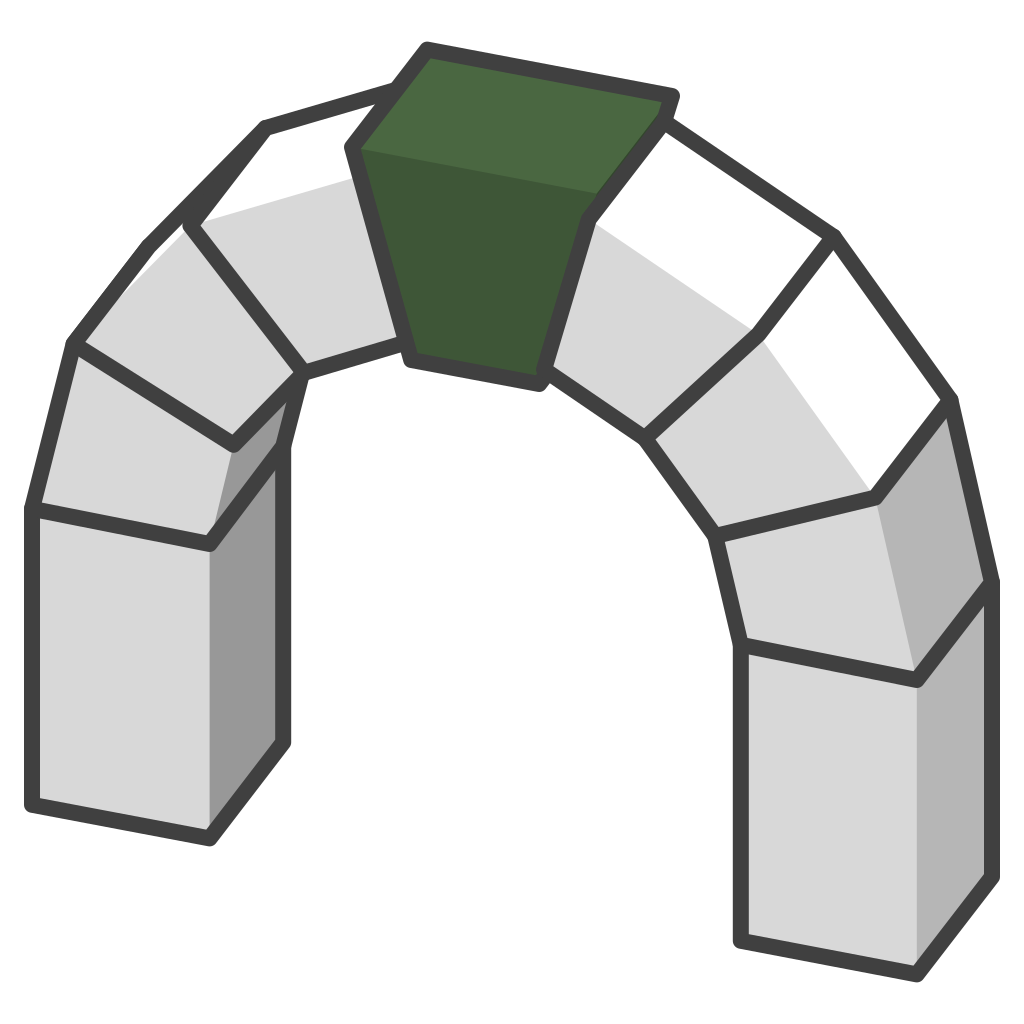
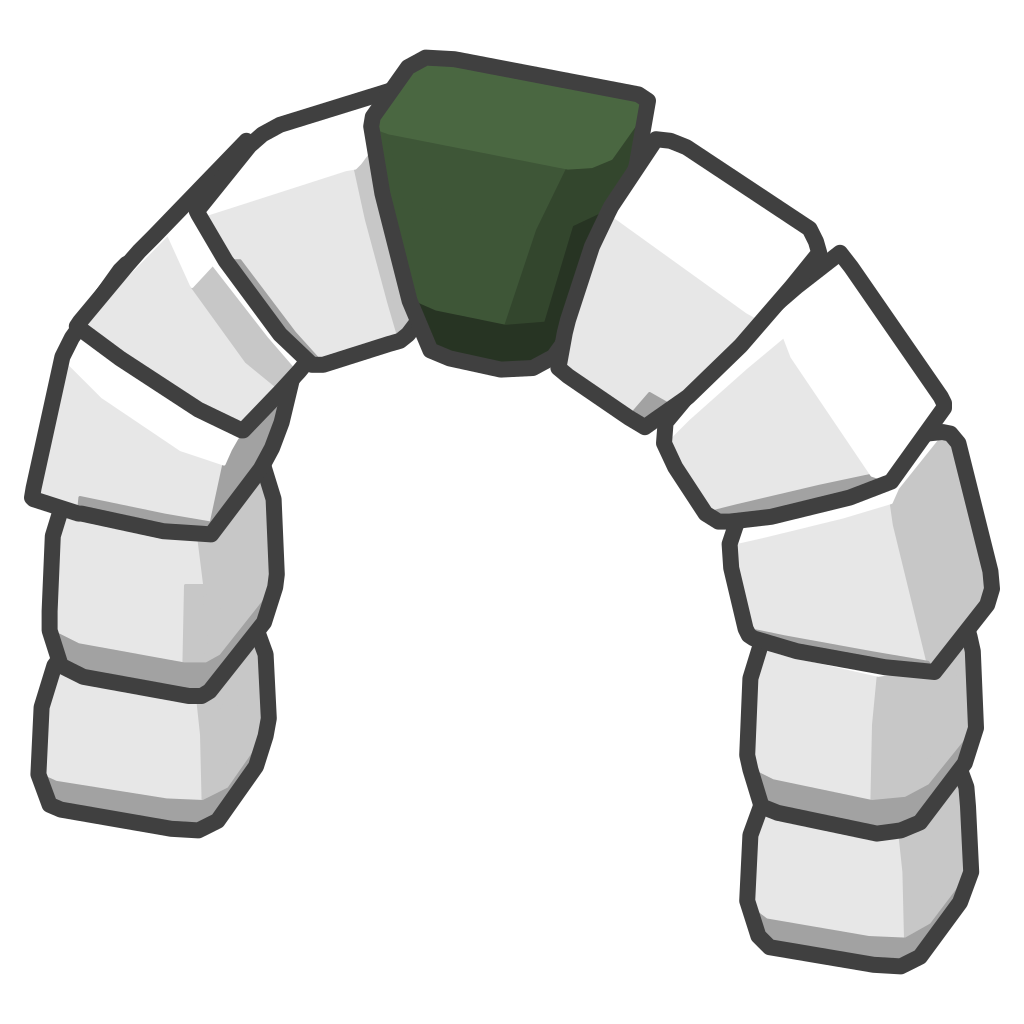
design(mark): arch v4, cairn-level faceted stones
Each stone is now a rounded slab built as cairn's are: rings up the side
(foot, belly, shoulder, top), 16 to 21 visible faces toned by normal, a
sloped top and seeded noise so no two match. Piers stand in two courses.
Faces of a tone share one path with a hair of their own colour, so the
large form stays crisp with no seams and no filters. The favicon keeps the
flat prisms; the hero's settled frame equals mark.svg. cairn-ref.svg is now
cairn's faceted glyph for comparison; its favicon moves to
cairn-favicon-ref.svg.

Changed region(s): [[0.0, 0.0312, 1.0, 0.9688], [0.375, 0.0625, 0.4062, 0.0938]]

diff --git a/prototypes/mark/index.html b/prototypes/mark/index.html
@@ -30,7 +30,7 @@ button { font: inherit; font-size: 13px; padding: 4px 12px; border: 1px solid va
 <body>
 <main>
 <h1>keystone mark: arch</h1>
-<p class="lede">A flat-faced isometric arch: two piers, six ring stones and the moss keystone standing proud at the crown. Faces are told apart by tone, not seams; the only stroke is each stone's silhouette at cairn's weight. Every image is an SVG at its own size except the favicon PNGs, which are 1:1.</p>
+<p class="lede">An isometric arch: two piers in two courses each, six ring stones and the moss keystone standing proud at the crown. Each stone is a rounded slab, cairn's build: rings up the side, many faces toned by normal, seeded so no two match. Faces of a tone share one fill, so no seams; the only dark stroke is each stone's silhouette at cairn's weight. The favicon stays the flat form. Every image is an SVG at its own size except the favicon PNGs, which are 1:1.</p>
 
 <section>
   <h2>hero: the keystone drops into the crown</h2>
@@ -44,6 +44,7 @@ button { font: inherit; font-size: 13px; padding: 4px 12px; border: 1px solid va
   <h2>mark</h2>
   <div class="row">
     <figure><img src="arch/mark.svg" width="512" height="512" alt="arch mark at 512"><figcaption>mark.svg at 512</figcaption></figure>
+    <figure><img src="cairn-ref.svg" width="512" height="512" alt="cairn glyph at 512"><figcaption>cairn's glyph at 512, for face density</figcaption></figure>
     <figure><img src="arch/mark.svg" width="128" height="128" alt="arch mark at 128"><figcaption>128</figcaption></figure>
     <figure><img src="arch/mark.svg" width="64" height="64" alt="arch mark at 64"><figcaption>64</figcaption></figure>
   </div>
@@ -54,7 +55,7 @@ button { font: inherit; font-size: 13px; padding: 4px 12px; border: 1px solid va
   <div class="row">
     <div class="strip">
       <div class="tab on"><img src="arch/favicon.svg" width="16" height="16" alt="">keystone</div>
-      <div class="tab"><img src="cairn-ref.svg" width="16" height="16" alt="">cairn</div>
+      <div class="tab"><img src="cairn-favicon-ref.svg" width="16" height="16" alt="">cairn</div>
     </div>
     <div class="px">
       <figure><img src="arch/favicon-16.png" width="16" height="16" alt="favicon at 16"><figcaption>16 png</figcaption></figure>
